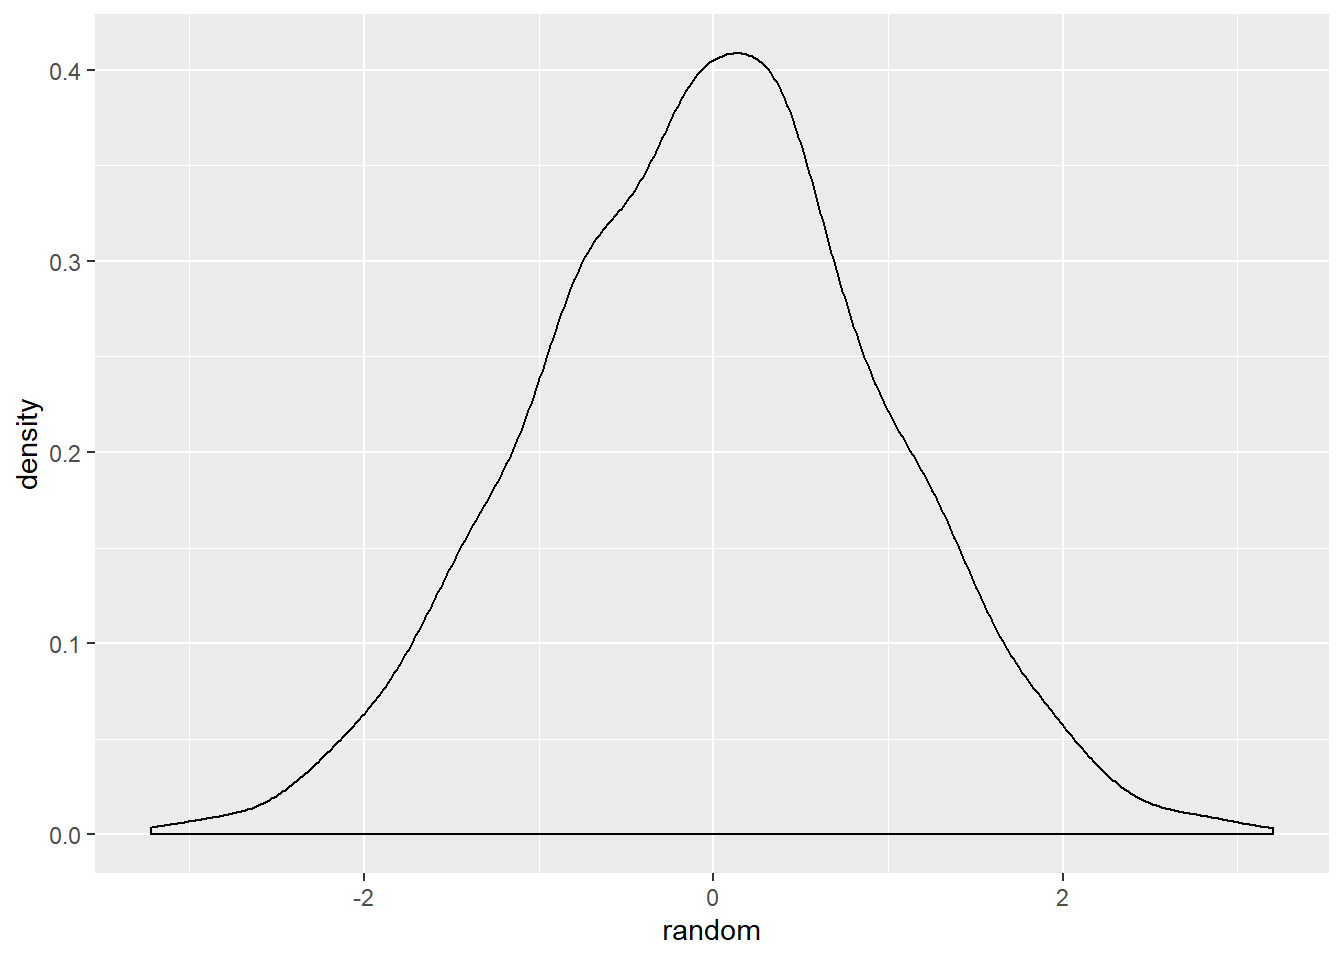
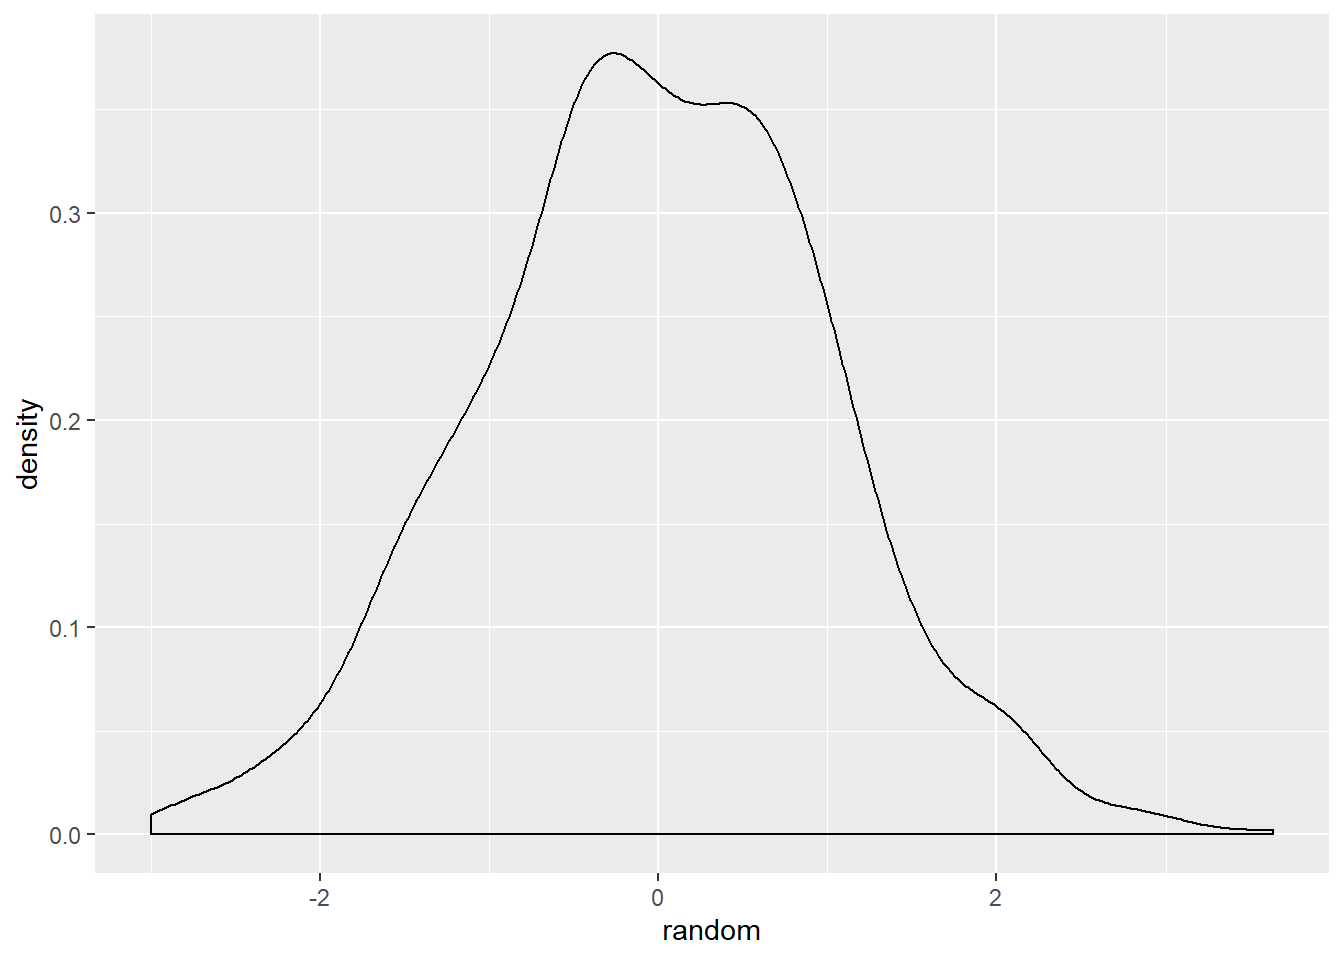
Update intro

diff --git a/docs/r-basics.html b/docs/r-basics.html
@@ -478,10 +478,11 @@ behaviour is sometimes unpredictable so be careful!</p>
 <p>We’ve encountered numeric and character. Let’s create slightly longer vectors:</p>
 <div class="sourceCode" id="cb33"><pre class="sourceCode r"><code class="sourceCode r"><span id="cb33-1"><a href="r-basics.html#cb33-1"></a>num &lt;-<span class="st"> </span><span class="kw">runif</span>(<span class="dv">25</span>)</span>
 <span id="cb33-2"><a href="r-basics.html#cb33-2"></a>num</span></code></pre></div>
-<pre><code>##  [1] 0.6917832 0.8897299 0.4913993 0.3381139 0.5275288 0.5313286 0.2054422
-##  [8] 0.2213190 0.6273941 0.9223614 0.3595209 0.2142744 0.8402742 0.2563012
-## [15] 0.6240994 0.4078544 0.3957209 0.2664383 0.6143638 0.6804264 0.4586033
-## [22] 0.4183320 0.4103626 0.4870234 0.6515551</code></pre>
+<pre><code>##  [1] 0.45995651 0.73171177 0.03002758 0.72508249 0.97539569 0.59598766
+##  [7] 0.04800404 0.44794526 0.05805469 0.94071221 0.06085563 0.61463513
+## [13] 0.34162502 0.58643602 0.44061324 0.16030957 0.25532333 0.92742118
+## [19] 0.66079754 0.09803354 0.40537045 0.86337817 0.35944961 0.02966828
+## [25] 0.57743731</code></pre>
 <div class="sourceCode" id="cb35"><pre class="sourceCode r"><code class="sourceCode r"><span id="cb35-1"><a href="r-basics.html#cb35-1"></a>char &lt;-<span class="st"> </span>LETTERS[<span class="dv">1</span><span class="op">:</span><span class="dv">25</span>]</span>
 <span id="cb35-2"><a href="r-basics.html#cb35-2"></a>char</span></code></pre></div>
 <pre><code>##  [1] &quot;A&quot; &quot;B&quot; &quot;C&quot; &quot;D&quot; &quot;E&quot; &quot;F&quot; &quot;G&quot; &quot;H&quot; &quot;I&quot; &quot;J&quot; &quot;K&quot; &quot;L&quot; &quot;M&quot; &quot;N&quot; &quot;O&quot; &quot;P&quot; &quot;Q&quot; &quot;R&quot; &quot;S&quot;
@@ -495,23 +496,24 @@ contains the alphabet.<br />
 <p>It’s important to understand how different vectors ‘work’, but most of this
 experience comes with time. Here’s an example:</p>
 <div class="sourceCode" id="cb37"><pre class="sourceCode r"><code class="sourceCode r"><span id="cb37-1"><a href="r-basics.html#cb37-1"></a>num <span class="op">*</span><span class="st"> </span><span class="dv">10</span></span></code></pre></div>
-<pre><code>##  [1] 6.917832 8.897299 4.913993 3.381139 5.275288 5.313286 2.054422 2.213190
-##  [9] 6.273941 9.223614 3.595209 2.142744 8.402742 2.563012 6.240994 4.078544
-## [17] 3.957209 2.664383 6.143638 6.804264 4.586033 4.183320 4.103626 4.870234
-## [25] 6.515551</code></pre>
+<pre><code>##  [1] 4.5995651 7.3171177 0.3002758 7.2508249 9.7539569 5.9598766 0.4800404
+##  [8] 4.4794526 0.5805469 9.4071221 0.6085563 6.1463513 3.4162502 5.8643602
+## [15] 4.4061324 1.6030957 2.5532333 9.2742118 6.6079754 0.9803354 4.0537045
+## [22] 8.6337817 3.5944961 0.2966828 5.7743731</code></pre>
 <div class="sourceCode" id="cb39"><pre class="sourceCode r"><code class="sourceCode r"><span id="cb39-1"><a href="r-basics.html#cb39-1"></a>num <span class="op">-</span><span class="st"> </span><span class="kw">seq</span>(<span class="dv">1</span>, <span class="dv">25</span>, <span class="dv">1</span>)</span></code></pre></div>
-<pre><code>##  [1]  -0.3082168  -1.1102701  -2.5086007  -3.6618861  -4.4724712  -5.4686714
-##  [7]  -6.7945578  -7.7786810  -8.3726059  -9.0776386 -10.6404791 -11.7857256
-## [13] -12.1597258 -13.7436988 -14.3759006 -15.5921456 -16.6042791 -17.7335617
-## [19] -18.3856362 -19.3195736 -20.5413967 -21.5816680 -22.5896374 -23.5129766
-## [25] -24.3484449</code></pre>
+<pre><code>##  [1]  -0.5400435  -1.2682882  -2.9699724  -3.2749175  -4.0246043  -5.4040123
+##  [7]  -6.9519960  -7.5520547  -8.9419453  -9.0592878 -10.9391444 -11.3853649
+## [13] -12.6583750 -13.4135640 -14.5593868 -15.8396904 -16.7446767 -17.0725788
+## [19] -18.3392025 -19.9019665 -20.5946296 -21.1366218 -22.6405504 -23.9703317
+## [25] -24.4225627</code></pre>
 <div class="sourceCode" id="cb41"><pre class="sourceCode r"><code class="sourceCode r"><span id="cb41-1"><a href="r-basics.html#cb41-1"></a>num <span class="op">*</span><span class="st"> </span><span class="kw">c</span>(<span class="dv">10</span>, <span class="dv">-10</span>)</span></code></pre></div>
 <pre><code>## Warning in num * c(10, -10): longer object length is not a multiple of shorter
 ## object length</code></pre>
-<pre><code>##  [1]  6.917832 -8.897299  4.913993 -3.381139  5.275288 -5.313286  2.054422
-##  [8] -2.213190  6.273941 -9.223614  3.595209 -2.142744  8.402742 -2.563012
-## [15]  6.240994 -4.078544  3.957209 -2.664383  6.143638 -6.804264  4.586033
-## [22] -4.183320  4.103626 -4.870234  6.515551</code></pre>
+<pre><code>##  [1]  4.5995651 -7.3171177  0.3002758 -7.2508249  9.7539569 -5.9598766
+##  [7]  0.4800404 -4.4794526  0.5805469 -9.4071221  0.6085563 -6.1463513
+## [13]  3.4162502 -5.8643602  4.4061324 -1.6030957  2.5532333 -9.2742118
+## [19]  6.6079754 -0.9803354  4.0537045 -8.6337817  3.5944961 -0.2966828
+## [25]  5.7743731</code></pre>
 <p><br />
 </p>
 <p><em>Question: what’s happened for each of those lines of code? What does the Warning
@@ -546,8 +548,8 @@ really. They basically indicate whether something is <code>TRUE</code> or <code>
 usually relate to a question we ask of our data:</p>
 <div class="sourceCode" id="cb47"><pre class="sourceCode r"><code class="sourceCode r"><span id="cb47-1"><a href="r-basics.html#cb47-1"></a>over0<span class="fl">.5</span> &lt;-<span class="st"> </span>num <span class="op">&gt;</span><span class="st"> </span><span class="fl">0.5</span></span>
 <span id="cb47-2"><a href="r-basics.html#cb47-2"></a>over0<span class="fl">.5</span></span></code></pre></div>
-<pre><code>##  [1]  TRUE  TRUE FALSE FALSE  TRUE  TRUE FALSE FALSE  TRUE  TRUE FALSE FALSE
-## [13]  TRUE FALSE  TRUE FALSE FALSE FALSE  TRUE  TRUE FALSE FALSE FALSE FALSE
+<pre><code>##  [1] FALSE  TRUE FALSE  TRUE  TRUE  TRUE FALSE FALSE FALSE  TRUE FALSE  TRUE
+## [13] FALSE  TRUE FALSE FALSE FALSE  TRUE  TRUE FALSE FALSE  TRUE FALSE FALSE
 ## [25]  TRUE</code></pre>
 <p><br />
 </p>

diff --git a/docs/index.html b/docs/index.html
@@ -304,11 +304,11 @@ lines beginning with <code>#</code>.</li>
 <div class="sourceCode" id="cb2"><pre class="sourceCode r"><code class="sourceCode r"><span id="cb2-1"><a href="index.html#cb2-1"></a><span class="co"># calculate the mean of the distribution</span></span>
 <span id="cb2-2"><a href="index.html#cb2-2"></a><span class="co"># (should be approximately 0)</span></span>
 <span id="cb2-3"><a href="index.html#cb2-3"></a><span class="kw">mean</span>(random)</span></code></pre></div>
-<pre><code>## [1] -0.022037</code></pre>
+<pre><code>## [1] -0.02020184</code></pre>
 <div class="sourceCode" id="cb4"><pre class="sourceCode r"><code class="sourceCode r"><span id="cb4-1"><a href="index.html#cb4-1"></a><span class="co"># calculate the standard deviation of the </span></span>
 <span id="cb4-2"><a href="index.html#cb4-2"></a><span class="co"># distribution (should be approximately 1)</span></span>
 <span id="cb4-3"><a href="index.html#cb4-3"></a><span class="kw">sd</span>(random)</span></code></pre></div>
-<pre><code>## [1] 0.9987947</code></pre>
+<pre><code>## [1] 1.036308</code></pre>
 <p> </p>
 <ul>
 <li>The worksheets also include <strong>instructional videos</strong> (a couple of examples are
@@ -322,6 +322,9 @@ the Chapter. Here’s an example:
 </div></li>
 </ul>
 <p> </p>
+</div>
+<div id="learning-schedule" class="section level3">
+<h3><span class="header-section-number">1.1.3</span> Learning schedule</h3>
 <p>Each chapter is arranged like this:</p>
 <ul>
 <li><strong>Part 1</strong> of each chapter uses a web application I wrote to help teach analysis
@@ -331,20 +334,17 @@ By interacting with the app, you’ll learn how to code different tasks and
 write these into a script which ultimately will contain a full analysis of a
 data set.</li>
 <li><strong>Part 2</strong> of each chapter is an interactive quiz which tests your knowledge of the
-topics and skills learned in Part 1. Here is an example:<br />
-</li>
+topics and skills learned in Part 1.</li>
 <li><strong>Part 3</strong> of each chapter presents some analytical tasks for biological data
 for you to code in R.<br />
  </li>
 </ul>
-</div>
-<div id="learning-schedule" class="section level3">
-<h3><span class="header-section-number">1.1.3</span> Learning schedule</h3>
-<p>Parts 1 and 2 of each chapter are to be completed at home each week, prior to the
-online session. These should take 1-2 hours per chapter, although this will
-definitely vary depending on the topic. Part 3 is to be
-completed during the online sessions, when you will work in your tutor groups.
-You may complete Parts 1 and 2 either individually, or in tutor groups, as you wish.</p>
+<p>Classwork (online) will be done in tutor groups. Homework can be completed
+individually or in tutor groups, as you wish.</p>
+<p><em>Parts 1 and 2 of each chapter are to be completed at home each week, prior to the</em>
+<em>online session.</em> These should take 1-2 hours per chapter, although this will
+definitely vary depending on the topic.</p>
+<p><em>Part 3 is to be completed during the online sessions</em>, which each last 1 hour.</p>
 <p>Information on the timetable, and both the formative and summative assessments,
 are found at the bottom of the page.<br />
  </p>
